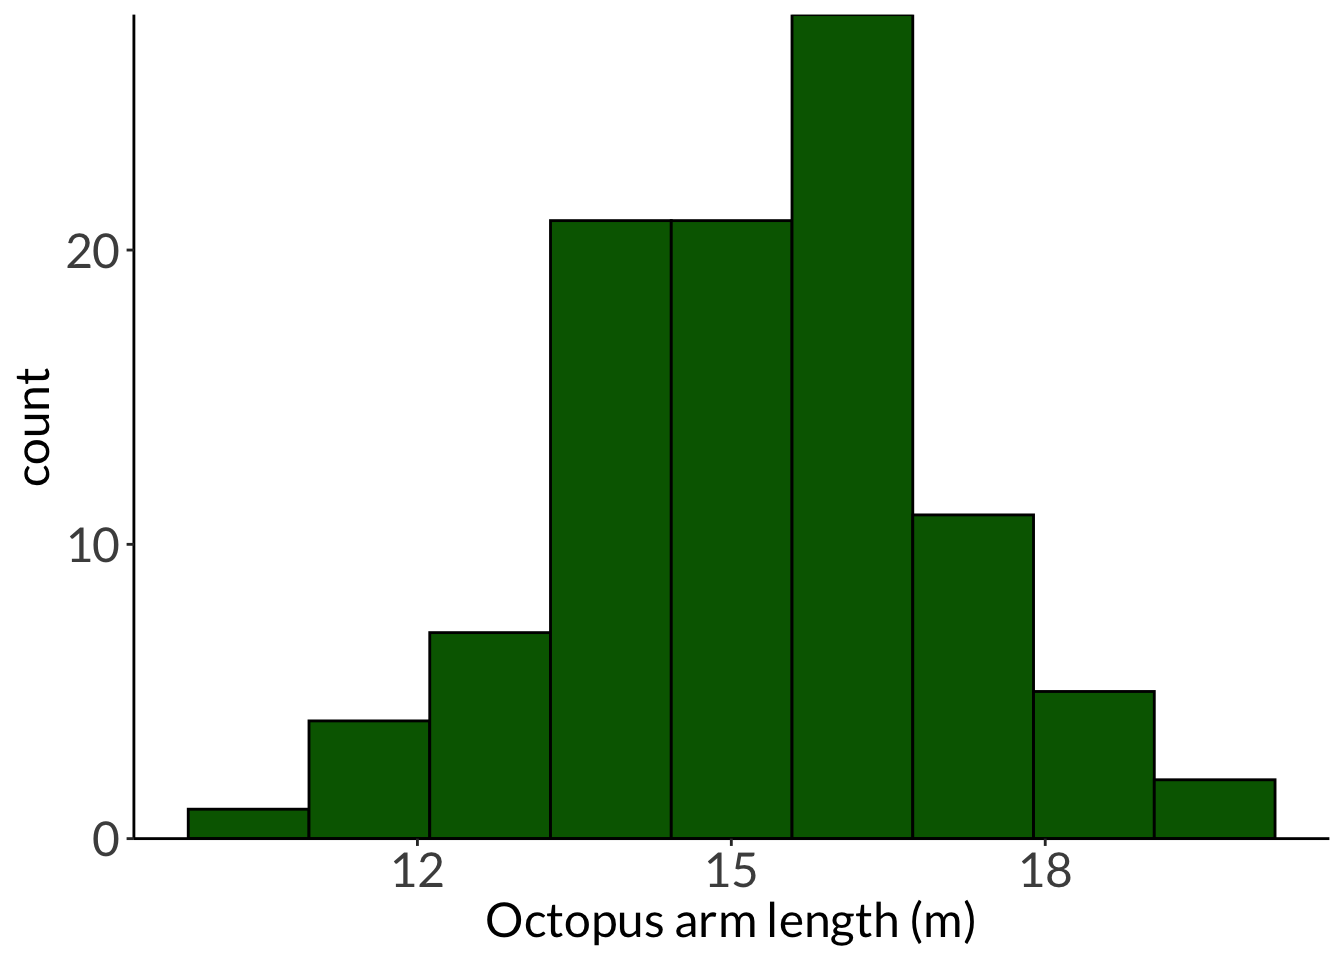
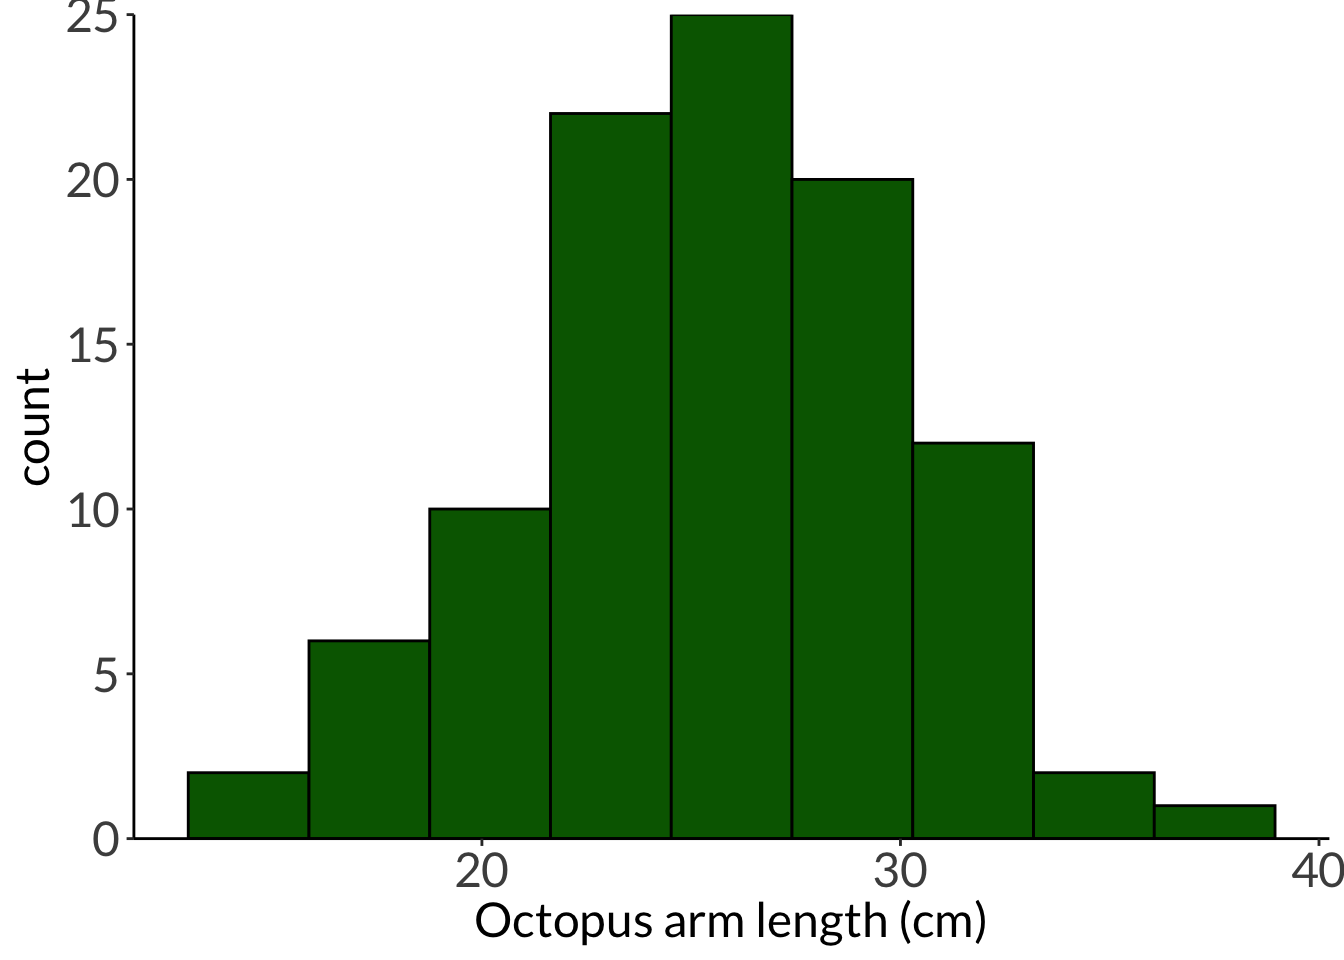
minor edits

diff --git a/docs/lecture/lecture_week-01.html b/docs/lecture/lecture_week-01.html
@@ -466,18 +466,18 @@ z = \frac{y_i - \mu}{\sigma}
 <details class="code-fold">
 <summary>Code</summary>
 <div class="sourceCode cell-code" id="cb9"><pre class="sourceCode r code-with-copy"><code class="sourceCode r"><span id="cb9-1"><a href="#cb9-1" aria-hidden="true" tabindex="-1"></a><span class="fu">set.seed</span>(<span class="dv">1</span>)</span>
-<span id="cb9-2"><a href="#cb9-2" aria-hidden="true" tabindex="-1"></a>ex2 <span class="ot">&lt;-</span> <span class="fu">rnorm</span>(<span class="at">n =</span> <span class="dv">100</span>, <span class="at">mean =</span> <span class="dv">15</span>, <span class="at">sd =</span> <span class="dv">2</span>)</span>
+<span id="cb9-2"><a href="#cb9-2" aria-hidden="true" tabindex="-1"></a>ex2 <span class="ot">&lt;-</span> <span class="fu">rnorm</span>(<span class="at">n =</span> <span class="dv">100</span>, <span class="at">mean =</span> <span class="dv">25</span>, <span class="at">sd =</span> <span class="dv">5</span>)</span>
 <span id="cb9-3"><a href="#cb9-3" aria-hidden="true" tabindex="-1"></a><span class="fu">mean</span>(ex2)</span></code><button title="Copy to Clipboard" class="code-copy-button"><i class="bi"></i></button></pre></div>
 </details>
 <div class="cell-output cell-output-stdout">
-<pre><code>[1] 15.21777</code></pre>
+<pre><code>[1] 25.54444</code></pre>
 </div>
 <details class="code-fold">
 <summary>Code</summary>
 <div class="sourceCode cell-code" id="cb11"><pre class="sourceCode r code-with-copy"><code class="sourceCode r"><span id="cb11-1"><a href="#cb11-1" aria-hidden="true" tabindex="-1"></a><span class="fu">median</span>(ex2)</span></code><button title="Copy to Clipboard" class="code-copy-button"><i class="bi"></i></button></pre></div>
 </details>
 <div class="cell-output cell-output-stdout">
-<pre><code>[1] 15.22782</code></pre>
+<pre><code>[1] 25.56955</code></pre>
 </div>
 <details class="code-fold">
 <summary>Code</summary>
@@ -488,7 +488,7 @@ z = \frac{y_i - \mu}{\sigma}
 <span id="cb13-5"><a href="#cb13-5" aria-hidden="true" tabindex="-1"></a>                 <span class="at">color =</span> <span class="st">"#000000"</span>,</span>
 <span id="cb13-6"><a href="#cb13-6" aria-hidden="true" tabindex="-1"></a>                 <span class="at">fill =</span> <span class="st">"darkgreen"</span>) <span class="sc">+</span></span>
 <span id="cb13-7"><a href="#cb13-7" aria-hidden="true" tabindex="-1"></a>  <span class="fu">scale_y_continuous</span>(<span class="at">expand =</span> <span class="fu">c</span>(<span class="dv">0</span>, <span class="dv">0</span>)) <span class="sc">+</span></span>
-<span id="cb13-8"><a href="#cb13-8" aria-hidden="true" tabindex="-1"></a>  <span class="fu">labs</span>(<span class="at">x =</span> <span class="st">"Octopus arm length (m)"</span>)</span></code><button title="Copy to Clipboard" class="code-copy-button"><i class="bi"></i></button></pre></div>
+<span id="cb13-8"><a href="#cb13-8" aria-hidden="true" tabindex="-1"></a>  <span class="fu">labs</span>(<span class="at">x =</span> <span class="st">"Octopus arm length (cm)"</span>)</span></code><button title="Copy to Clipboard" class="code-copy-button"><i class="bi"></i></button></pre></div>
 </details>
 <div class="cell-output-display">
 <div>
@@ -1614,7 +1614,7 @@ window.document.addEventListener("DOMContentLoaded", function (event) {
 <span id="cb35-152"><a href="#cb35-152" aria-hidden="true" tabindex="-1"></a><span class="in">  labs(x = "Hermit crab shell length (cm)")</span></span>
 <span id="cb35-153"><a href="#cb35-153" aria-hidden="true" tabindex="-1"></a></span>
 <span id="cb35-154"><a href="#cb35-154" aria-hidden="true" tabindex="-1"></a><span class="in">set.seed(1)</span></span>
-<span id="cb35-155"><a href="#cb35-155" aria-hidden="true" tabindex="-1"></a><span class="in">ex2 &lt;- rnorm(n = 100, mean = 15, sd = 2)</span></span>
+<span id="cb35-155"><a href="#cb35-155" aria-hidden="true" tabindex="-1"></a><span class="in">ex2 &lt;- rnorm(n = 100, mean = 25, sd = 5)</span></span>
 <span id="cb35-156"><a href="#cb35-156" aria-hidden="true" tabindex="-1"></a><span class="in">mean(ex2)</span></span>
 <span id="cb35-157"><a href="#cb35-157" aria-hidden="true" tabindex="-1"></a><span class="in">median(ex2)</span></span>
 <span id="cb35-158"><a href="#cb35-158" aria-hidden="true" tabindex="-1"></a></span>
@@ -1625,7 +1625,7 @@ window.document.addEventListener("DOMContentLoaded", function (event) {
 <span id="cb35-163"><a href="#cb35-163" aria-hidden="true" tabindex="-1"></a><span class="in">                 color = "#000000",</span></span>
 <span id="cb35-164"><a href="#cb35-164" aria-hidden="true" tabindex="-1"></a><span class="in">                 fill = "darkgreen") +</span></span>
 <span id="cb35-165"><a href="#cb35-165" aria-hidden="true" tabindex="-1"></a><span class="in">  scale_y_continuous(expand = c(0, 0)) +</span></span>
-<span id="cb35-166"><a href="#cb35-166" aria-hidden="true" tabindex="-1"></a><span class="in">  labs(x = "Octopus arm length (m)")</span></span>
+<span id="cb35-166"><a href="#cb35-166" aria-hidden="true" tabindex="-1"></a><span class="in">  labs(x = "Octopus arm length (cm)")</span></span>
 <span id="cb35-167"><a href="#cb35-167" aria-hidden="true" tabindex="-1"></a><span class="in">```</span></span>
 <span id="cb35-168"><a href="#cb35-168" aria-hidden="true" tabindex="-1"></a></span>
 <span id="cb35-169"><a href="#cb35-169" aria-hidden="true" tabindex="-1"></a></span>

diff --git a/docs/lecture.html b/docs/lecture.html
@@ -287,7 +287,7 @@ window.Quarto = {
 </tr>
 </thead>
 <tbody class="list">
-<tr data-index="0" data-categories="central tendency,spread,regression,histogram,jitterplot,box-and-whisker plot,probability mass,probability density,probability distribution,normal distribution,z-score calculation,t-distribution,uniform distribution,binomial distribution,poisson distribution" data-listing-date-sort="1711954800000" data-listing-file-modified-sort="1712096674601" data-listing-date-modified-sort="1712096674000" data-listing-reading-time-sort="16" data-listing-word-count-sort="3127" data-listing-title-sort="Week 1 figures - Lectures 1 and 2" data-listing-filename-sort="lecture_week-01.qmd">
+<tr data-index="0" data-categories="central tendency,spread,regression,histogram,jitterplot,box-and-whisker plot,probability mass,probability density,probability distribution,normal distribution,z-score calculation,t-distribution,uniform distribution,binomial distribution,poisson distribution" data-listing-date-sort="1711954800000" data-listing-file-modified-sort="1712096878597" data-listing-date-modified-sort="1712096878000" data-listing-reading-time-sort="16" data-listing-word-count-sort="3127" data-listing-title-sort="Week 1 figures - Lectures 1 and 2" data-listing-filename-sort="lecture_week-01.qmd">
 <td>
 <a href="./lecture/lecture_week-01.html" class="title listing-title">Week 1 figures - Lectures 1 and 2</a>
 </td>

diff --git a/docs/assignments/getting-set-up.html b/docs/assignments/getting-set-up.html
@@ -938,7 +938,7 @@ window.document.addEventListener("DOMContentLoaded", function (event) {
 <span id="cb1-108"><a href="#cb1-108" aria-hidden="true" tabindex="-1"></a></span></code><button title="Copy to Clipboard" class="code-copy-button"><i class="bi"></i></button></pre></div>
 </div></div></div></div></div>
 </div> <!-- /content -->
-<script>var lightboxQuarto = GLightbox({"descPosition":"bottom","closeEffect":"zoom","openEffect":"zoom","selector":".lightbox","loop":false});
+<script>var lightboxQuarto = GLightbox({"selector":".lightbox","loop":false,"openEffect":"zoom","descPosition":"bottom","closeEffect":"zoom"});
 window.onload = () => {
   lightboxQuarto.on('slide_before_load', (data) => {
     const { slideIndex, slideNode, slideConfig, player, trigger } = data;

diff --git a/docs/index.html b/docs/index.html
@@ -784,7 +784,7 @@ window.document.addEventListener("DOMContentLoaded", function (event) {
 <span id="cb1-73"><a href="#cb1-73" aria-hidden="true" tabindex="-1"></a></span></code><button title="Copy to Clipboard" class="code-copy-button"><i class="bi"></i></button></pre></div>
 </div></div></div></div></div>
 </div> <!-- /content -->
-<script>var lightboxQuarto = GLightbox({"loop":false,"openEffect":"zoom","selector":".lightbox","descPosition":"bottom","closeEffect":"zoom"});
+<script>var lightboxQuarto = GLightbox({"loop":false,"closeEffect":"zoom","openEffect":"zoom","selector":".lightbox","descPosition":"bottom"});
 window.onload = () => {
   lightboxQuarto.on('slide_before_load', (data) => {
     const { slideIndex, slideNode, slideConfig, player, trigger } = data;

diff --git a/docs/resources/using-virtual-machine.html b/docs/resources/using-virtual-machine.html
@@ -821,7 +821,7 @@ window.document.addEventListener("DOMContentLoaded", function (event) {
 <span id="cb1-85"><a href="#cb1-85" aria-hidden="true" tabindex="-1"></a></span></code><button title="Copy to Clipboard" class="code-copy-button"><i class="bi"></i></button></pre></div>
 </div></div></div></div></div>
 </div> <!-- /content -->
-<script>var lightboxQuarto = GLightbox({"selector":".lightbox","closeEffect":"zoom","openEffect":"zoom","loop":false,"descPosition":"bottom"});
+<script>var lightboxQuarto = GLightbox({"descPosition":"bottom","openEffect":"zoom","loop":false,"selector":".lightbox","closeEffect":"zoom"});
 window.onload = () => {
   lightboxQuarto.on('slide_before_load', (data) => {
     const { slideIndex, slideNode, slideConfig, player, trigger } = data;
